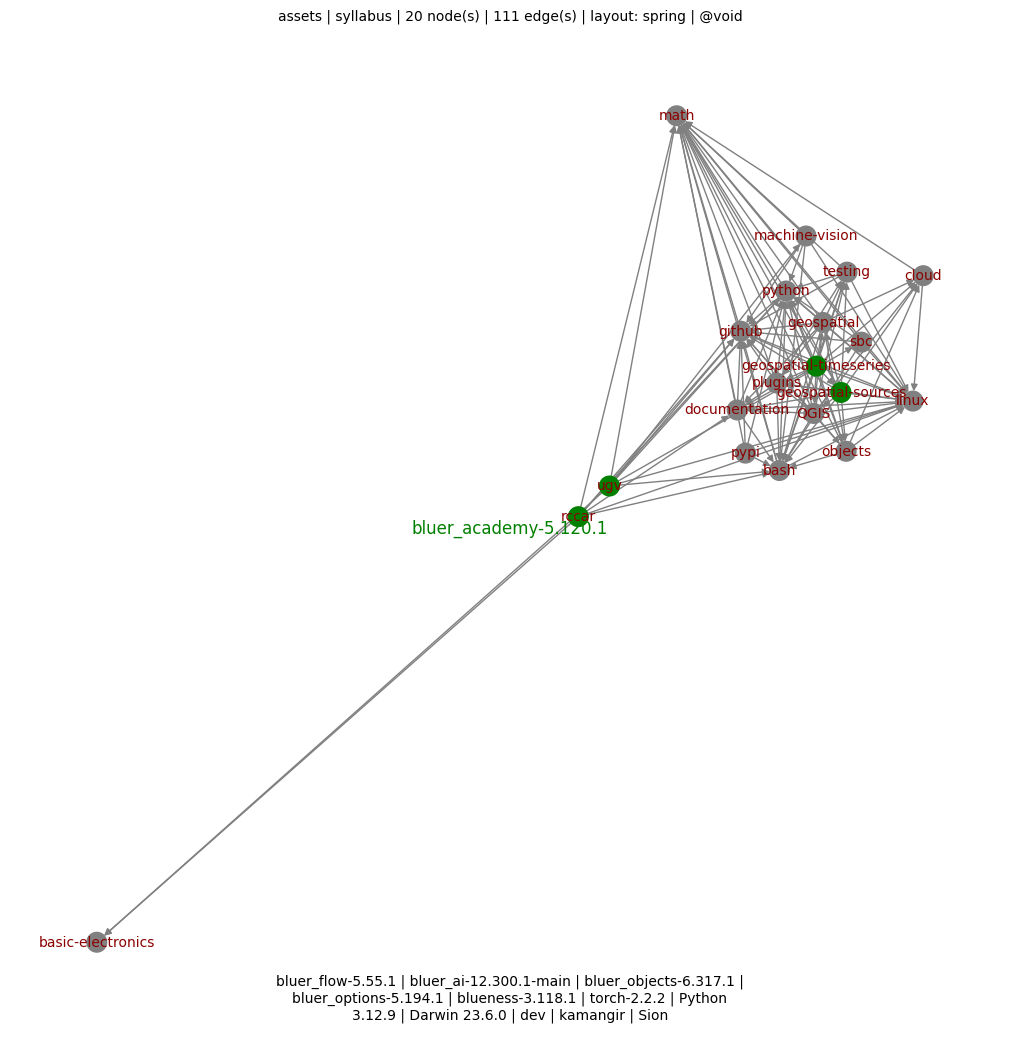
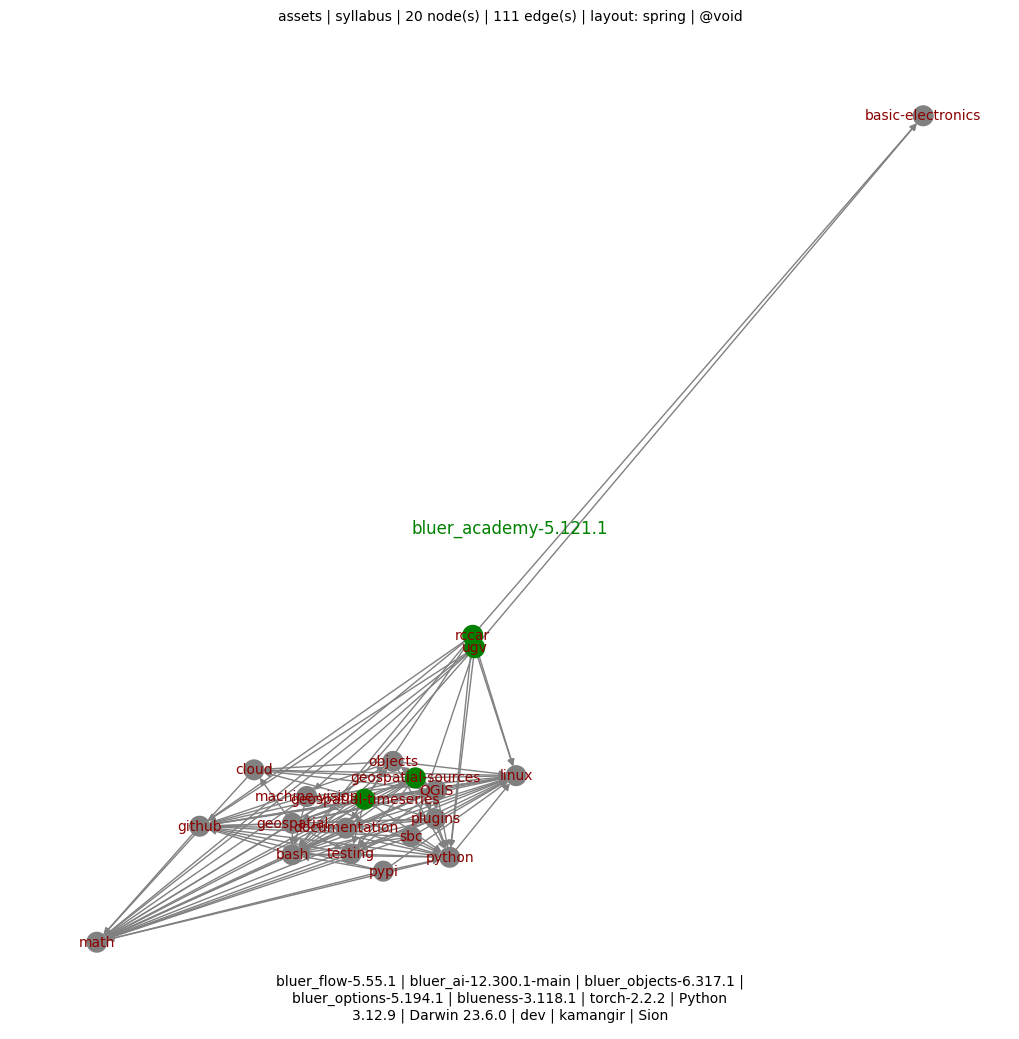
++ - kamangir/bolt#746

diff --git a/bluer_academy/academy/classes/syllabus.py b/bluer_academy/academy/classes/syllabus.py
@@ -133,9 +133,9 @@ class Syllabus:
         for topic_name in sorted_list_of_topic_names:
             topic = self.topic(topic_name)
             topic.required_for = [
-                topic_name
-                for topic_name in sorted_list_of_topic_names
-                if topic_name in self.topic(topic_name).requirements
+                topic_name_
+                for topic_name_ in sorted_list_of_topic_names
+                if topic_name in self.topic(topic_name_).requirements
             ]
 
         return True

diff --git a/bluer_academy/__init__.py b/bluer_academy/__init__.py
@@ -4,7 +4,7 @@ ICON = "📐"
 
 DESCRIPTION = f"{ICON} an academy for practical AI in Iran."
 
-VERSION = "5.120.1"
+VERSION = "5.121.1"
 
 REPO_NAME = "bluer-academy"
 

diff --git a/README.md b/README.md
@@ -15,4 +15,4 @@ pip install bluer-academy
 
 [![pylint](https://github.com/kamangir/bluer-academy/actions/workflows/pylint.yml/badge.svg)](https://github.com/kamangir/bluer-academy/actions/workflows/pylint.yml) [![pytest](https://github.com/kamangir/bluer-academy/actions/workflows/pytest.yml/badge.svg)](https://github.com/kamangir/bluer-academy/actions/workflows/pytest.yml) [![bashtest](https://github.com/kamangir/bluer-academy/actions/workflows/bashtest.yml/badge.svg)](https://github.com/kamangir/bluer-academy/actions/workflows/bashtest.yml) [![PyPI version](https://img.shields.io/pypi/v/bluer-academy.svg)](https://pypi.org/project/bluer-academy/) [![PyPI - Downloads](https://img.shields.io/pypi/dd/bluer-academy)](https://pypistats.org/packages/bluer-academy)
 
-built by 🌀 [`bluer README`](https://github.com/kamangir/bluer-objects/tree/main/bluer_objects/README), based on 📐 [`bluer_academy-5.120.1`](https://github.com/kamangir/bluer-academy).
+built by 🌀 [`bluer README`](https://github.com/kamangir/bluer-objects/tree/main/bluer_objects/README), based on 📐 [`bluer_academy-5.121.1`](https://github.com/kamangir/bluer-academy).

diff --git a/bluer_academy/docs/academy/syllabus/linux.md b/bluer_academy/docs/academy/syllabus/linux.md
@@ -7,6 +7,7 @@ includes:
 
 ⬅ requires: [math](./math.md)
 
+➡ required for: [cloud](./cloud.md), [github](./github.md), [python](./python.md), [bash](./bash.md), [documentation](./documentation.md), [machine-vision](./machine-vision.md), [objects](./objects.md), [pypi](./pypi.md), [sbc](./sbc.md), [testing](./testing.md), [plugins](./plugins.md), [rccar](./rccar.md), [ugv](./ugv.md), [geospatial](./geospatial.md), [QGIS](./QGIS.md), [geospatial-sources](./geospatial-sources.md), [geospatial-timeseries](./geospatial-timeseries.md)
 
 ⏳ duration: 3.0 hours
 

diff --git a/bluer_academy/docs/academy/syllabus/math.md b/bluer_academy/docs/academy/syllabus/math.md
@@ -7,6 +7,7 @@ includes:
 ---
 
 
+➡ required for: [linux](./linux.md), [cloud](./cloud.md), [github](./github.md), [python](./python.md), [bash](./bash.md), [documentation](./documentation.md), [machine-vision](./machine-vision.md), [objects](./objects.md), [pypi](./pypi.md), [sbc](./sbc.md), [testing](./testing.md), [plugins](./plugins.md), [rccar](./rccar.md), [ugv](./ugv.md), [geospatial](./geospatial.md), [QGIS](./QGIS.md), [geospatial-sources](./geospatial-sources.md), [geospatial-timeseries](./geospatial-timeseries.md)
 
 ⏳ duration: 3.0 hours
 

diff --git a/bluer_academy/docs/academy/syllabus/bash.md b/bluer_academy/docs/academy/syllabus/bash.md
@@ -10,6 +10,7 @@ includes:
 
 ⬅ requires: [github](./github.md), [linux](./linux.md), [math](./math.md), [python](./python.md)
 
+➡ required for: [documentation](./documentation.md), [machine-vision](./machine-vision.md), [objects](./objects.md), [pypi](./pypi.md), [sbc](./sbc.md), [testing](./testing.md), [plugins](./plugins.md), [rccar](./rccar.md), [ugv](./ugv.md), [geospatial](./geospatial.md), [QGIS](./QGIS.md), [geospatial-sources](./geospatial-sources.md), [geospatial-timeseries](./geospatial-timeseries.md)
 
 ⏳ duration: 3.0 hours
 

diff --git a/bluer_academy/docs/academy/syllabus/python.md b/bluer_academy/docs/academy/syllabus/python.md
@@ -12,6 +12,7 @@ includes:
 
 ⬅ requires: [github](./github.md), [linux](./linux.md), [math](./math.md)
 
+➡ required for: [bash](./bash.md), [documentation](./documentation.md), [machine-vision](./machine-vision.md), [objects](./objects.md), [pypi](./pypi.md), [sbc](./sbc.md), [testing](./testing.md), [plugins](./plugins.md), [rccar](./rccar.md), [ugv](./ugv.md), [geospatial](./geospatial.md), [QGIS](./QGIS.md), [geospatial-sources](./geospatial-sources.md), [geospatial-timeseries](./geospatial-timeseries.md)
 
 ⏳ duration: 12.0 hours
 

diff --git a/bluer_academy/docs/academy/syllabus/github.md b/bluer_academy/docs/academy/syllabus/github.md
@@ -10,6 +10,7 @@ includes:
 
 ⬅ requires: [linux](./linux.md), [math](./math.md)
 
+➡ required for: [python](./python.md), [bash](./bash.md), [documentation](./documentation.md), [machine-vision](./machine-vision.md), [objects](./objects.md), [pypi](./pypi.md), [sbc](./sbc.md), [testing](./testing.md), [plugins](./plugins.md), [rccar](./rccar.md), [ugv](./ugv.md), [geospatial](./geospatial.md), [QGIS](./QGIS.md), [geospatial-sources](./geospatial-sources.md), [geospatial-timeseries](./geospatial-timeseries.md)
 
 ⏳ duration: 3.0 hours
 

diff --git a/bluer_academy/docs/academy/syllabus/QGIS.md b/bluer_academy/docs/academy/syllabus/QGIS.md
@@ -11,6 +11,7 @@ includes:
 
 ⬅ requires: [bash](./bash.md), [cloud](./cloud.md), [documentation](./documentation.md), [geospatial](./geospatial.md), [github](./github.md), [linux](./linux.md), [math](./math.md), [objects](./objects.md), [plugins](./plugins.md), [python](./python.md), [testing](./testing.md)
 
+➡ required for: [geospatial-sources](./geospatial-sources.md), [geospatial-timeseries](./geospatial-timeseries.md)
 
 ⏳ duration: 3.0 hours
 

diff --git a/bluer_academy/docs/academy/syllabus/geospatial.md b/bluer_academy/docs/academy/syllabus/geospatial.md
@@ -10,6 +10,7 @@ includes:
 
 ⬅ requires: [bash](./bash.md), [cloud](./cloud.md), [documentation](./documentation.md), [github](./github.md), [linux](./linux.md), [math](./math.md), [objects](./objects.md), [plugins](./plugins.md), [python](./python.md), [testing](./testing.md)
 
+➡ required for: [QGIS](./QGIS.md), [geospatial-sources](./geospatial-sources.md), [geospatial-timeseries](./geospatial-timeseries.md)
 
 ⏳ duration: 6.0 hours
 

diff --git a/bluer_academy/docs/academy/syllabus/geospatial-sources.md b/bluer_academy/docs/academy/syllabus/geospatial-sources.md
@@ -11,6 +11,7 @@ includes:
 
 ⬅ requires: [QGIS](./QGIS.md), [bash](./bash.md), [cloud](./cloud.md), [documentation](./documentation.md), [geospatial](./geospatial.md), [github](./github.md), [linux](./linux.md), [math](./math.md), [objects](./objects.md), [plugins](./plugins.md), [python](./python.md), [testing](./testing.md)
 
+➡ required for: [geospatial-timeseries](./geospatial-timeseries.md)
 
 ⏳ duration: 6.0 hours
 

diff --git a/bluer_academy/docs/academy/syllabus/plugins.md b/bluer_academy/docs/academy/syllabus/plugins.md
@@ -7,6 +7,7 @@ includes:
 
 ⬅ requires: [bash](./bash.md), [documentation](./documentation.md), [github](./github.md), [linux](./linux.md), [math](./math.md), [python](./python.md), [testing](./testing.md)
 
+➡ required for: [geospatial](./geospatial.md), [QGIS](./QGIS.md), [geospatial-sources](./geospatial-sources.md), [geospatial-timeseries](./geospatial-timeseries.md)
 
 ⏳ duration: 3.0 hours
 
